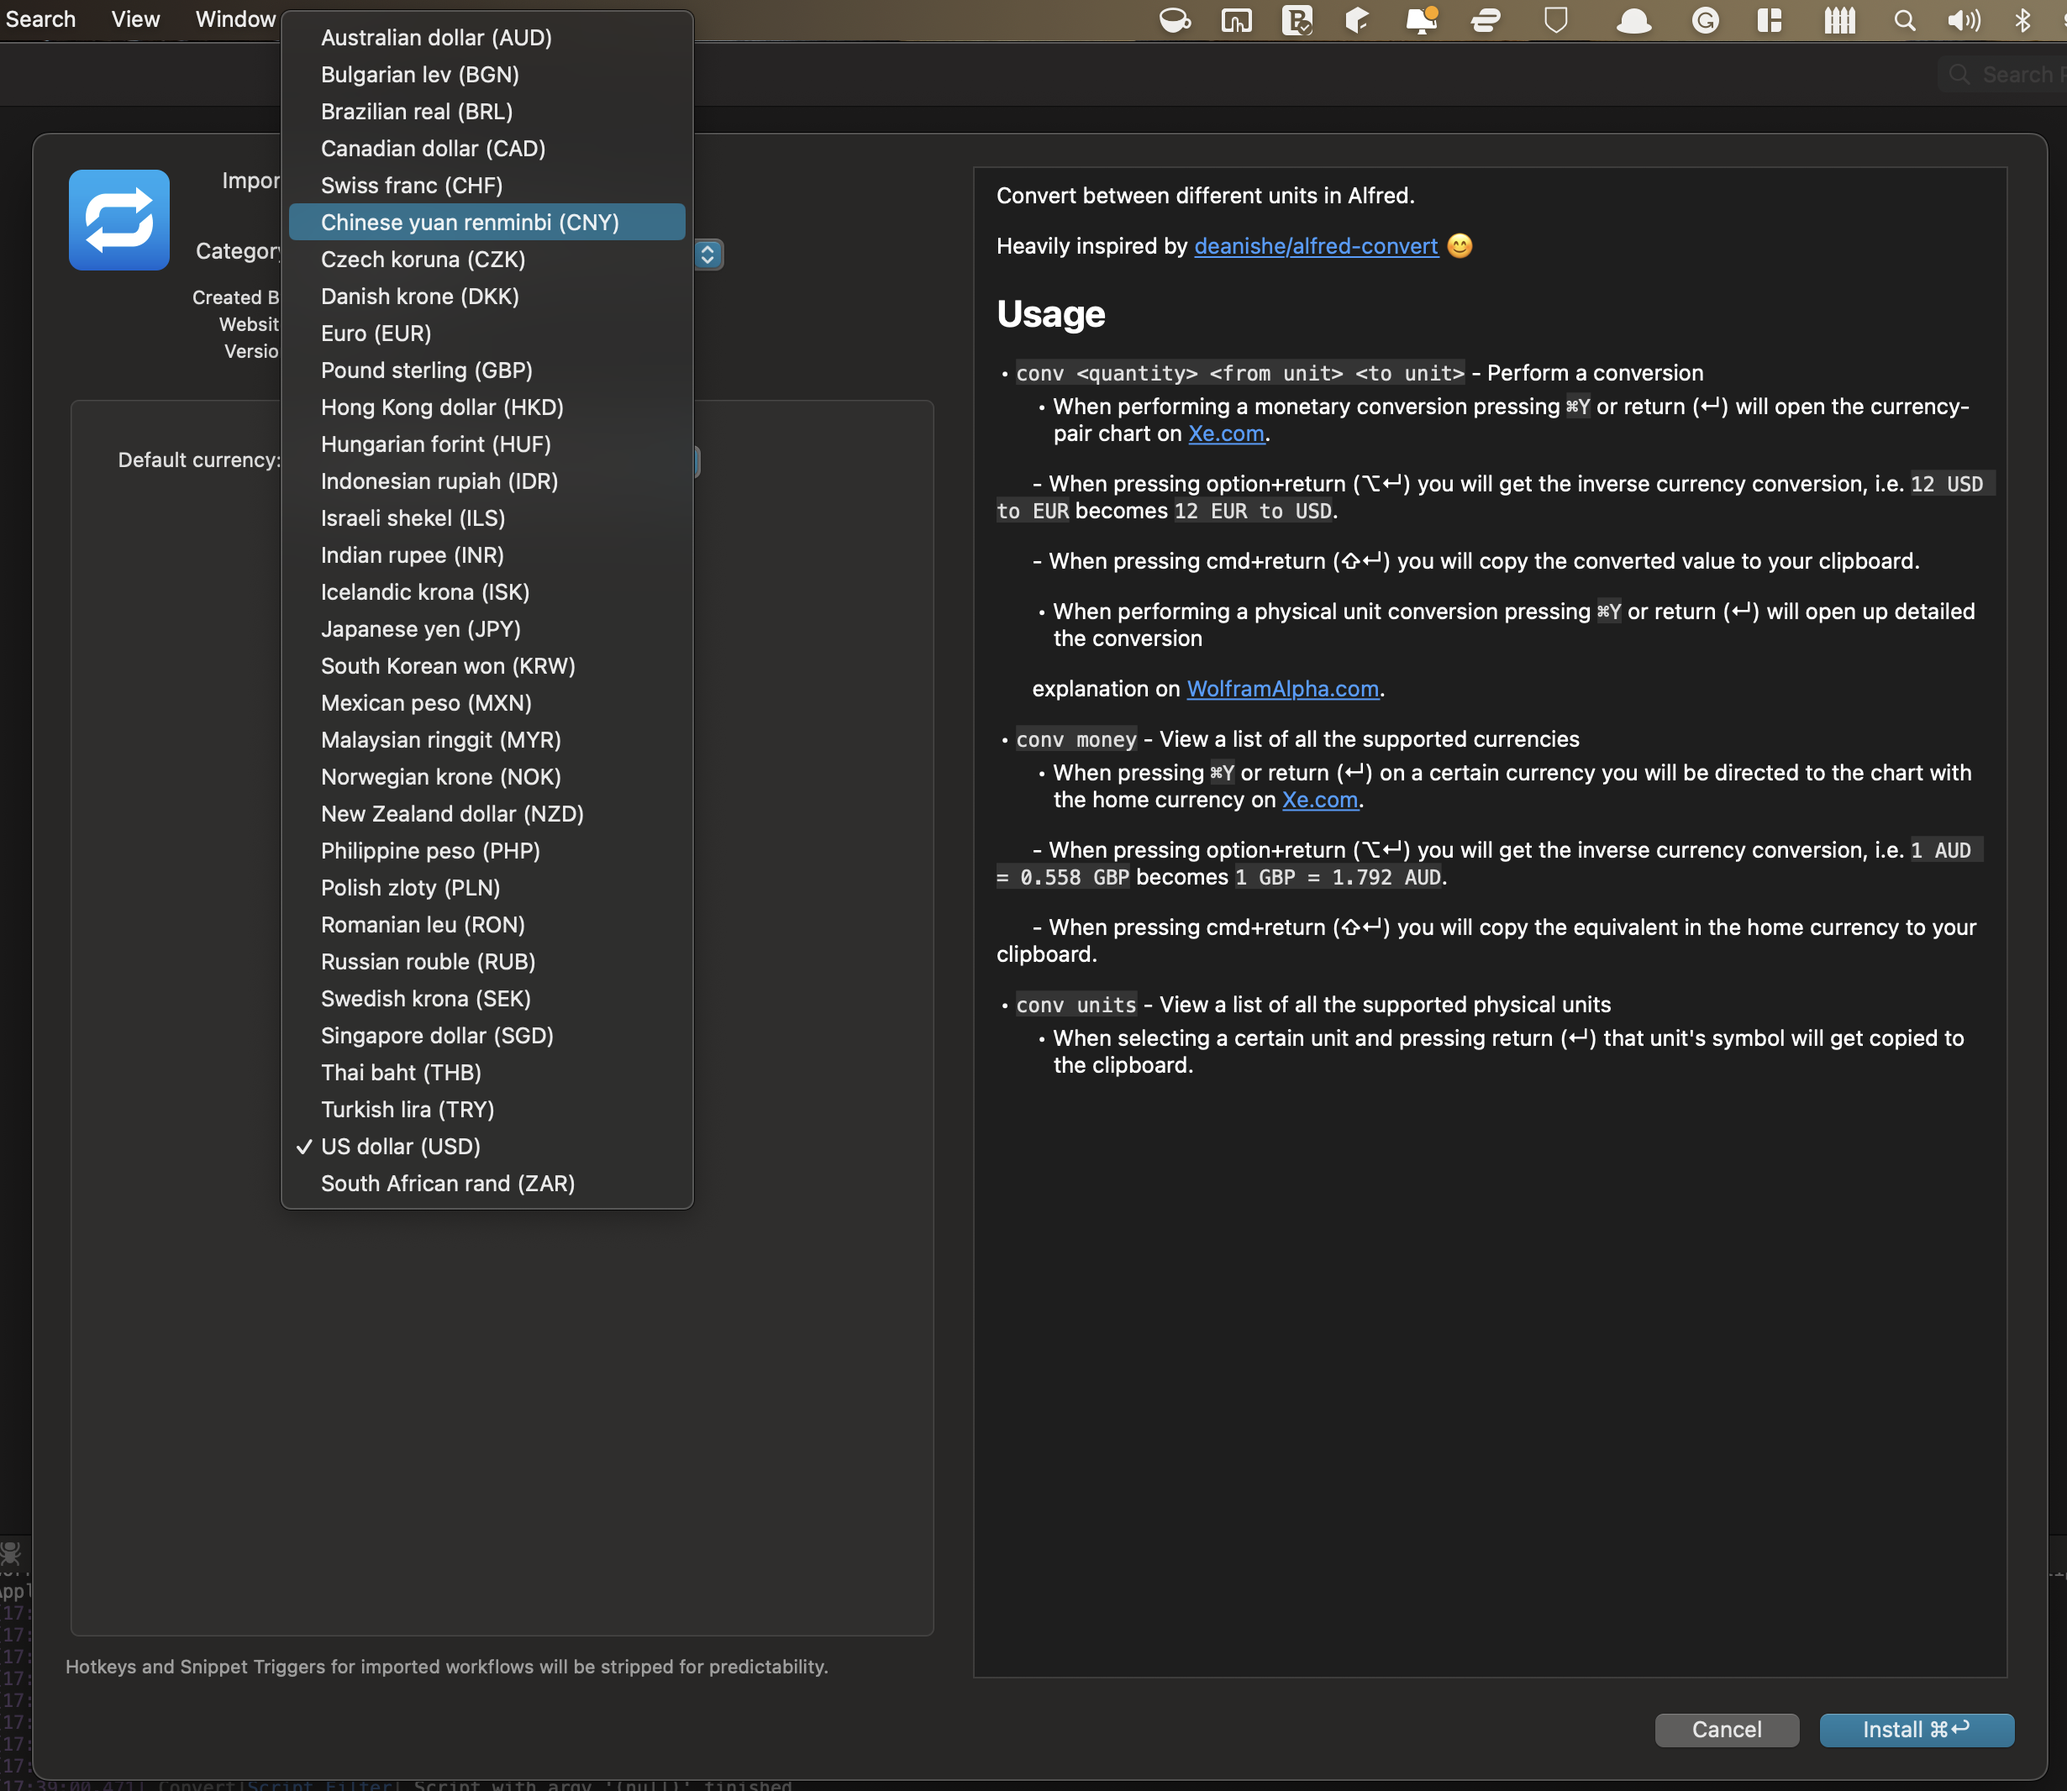
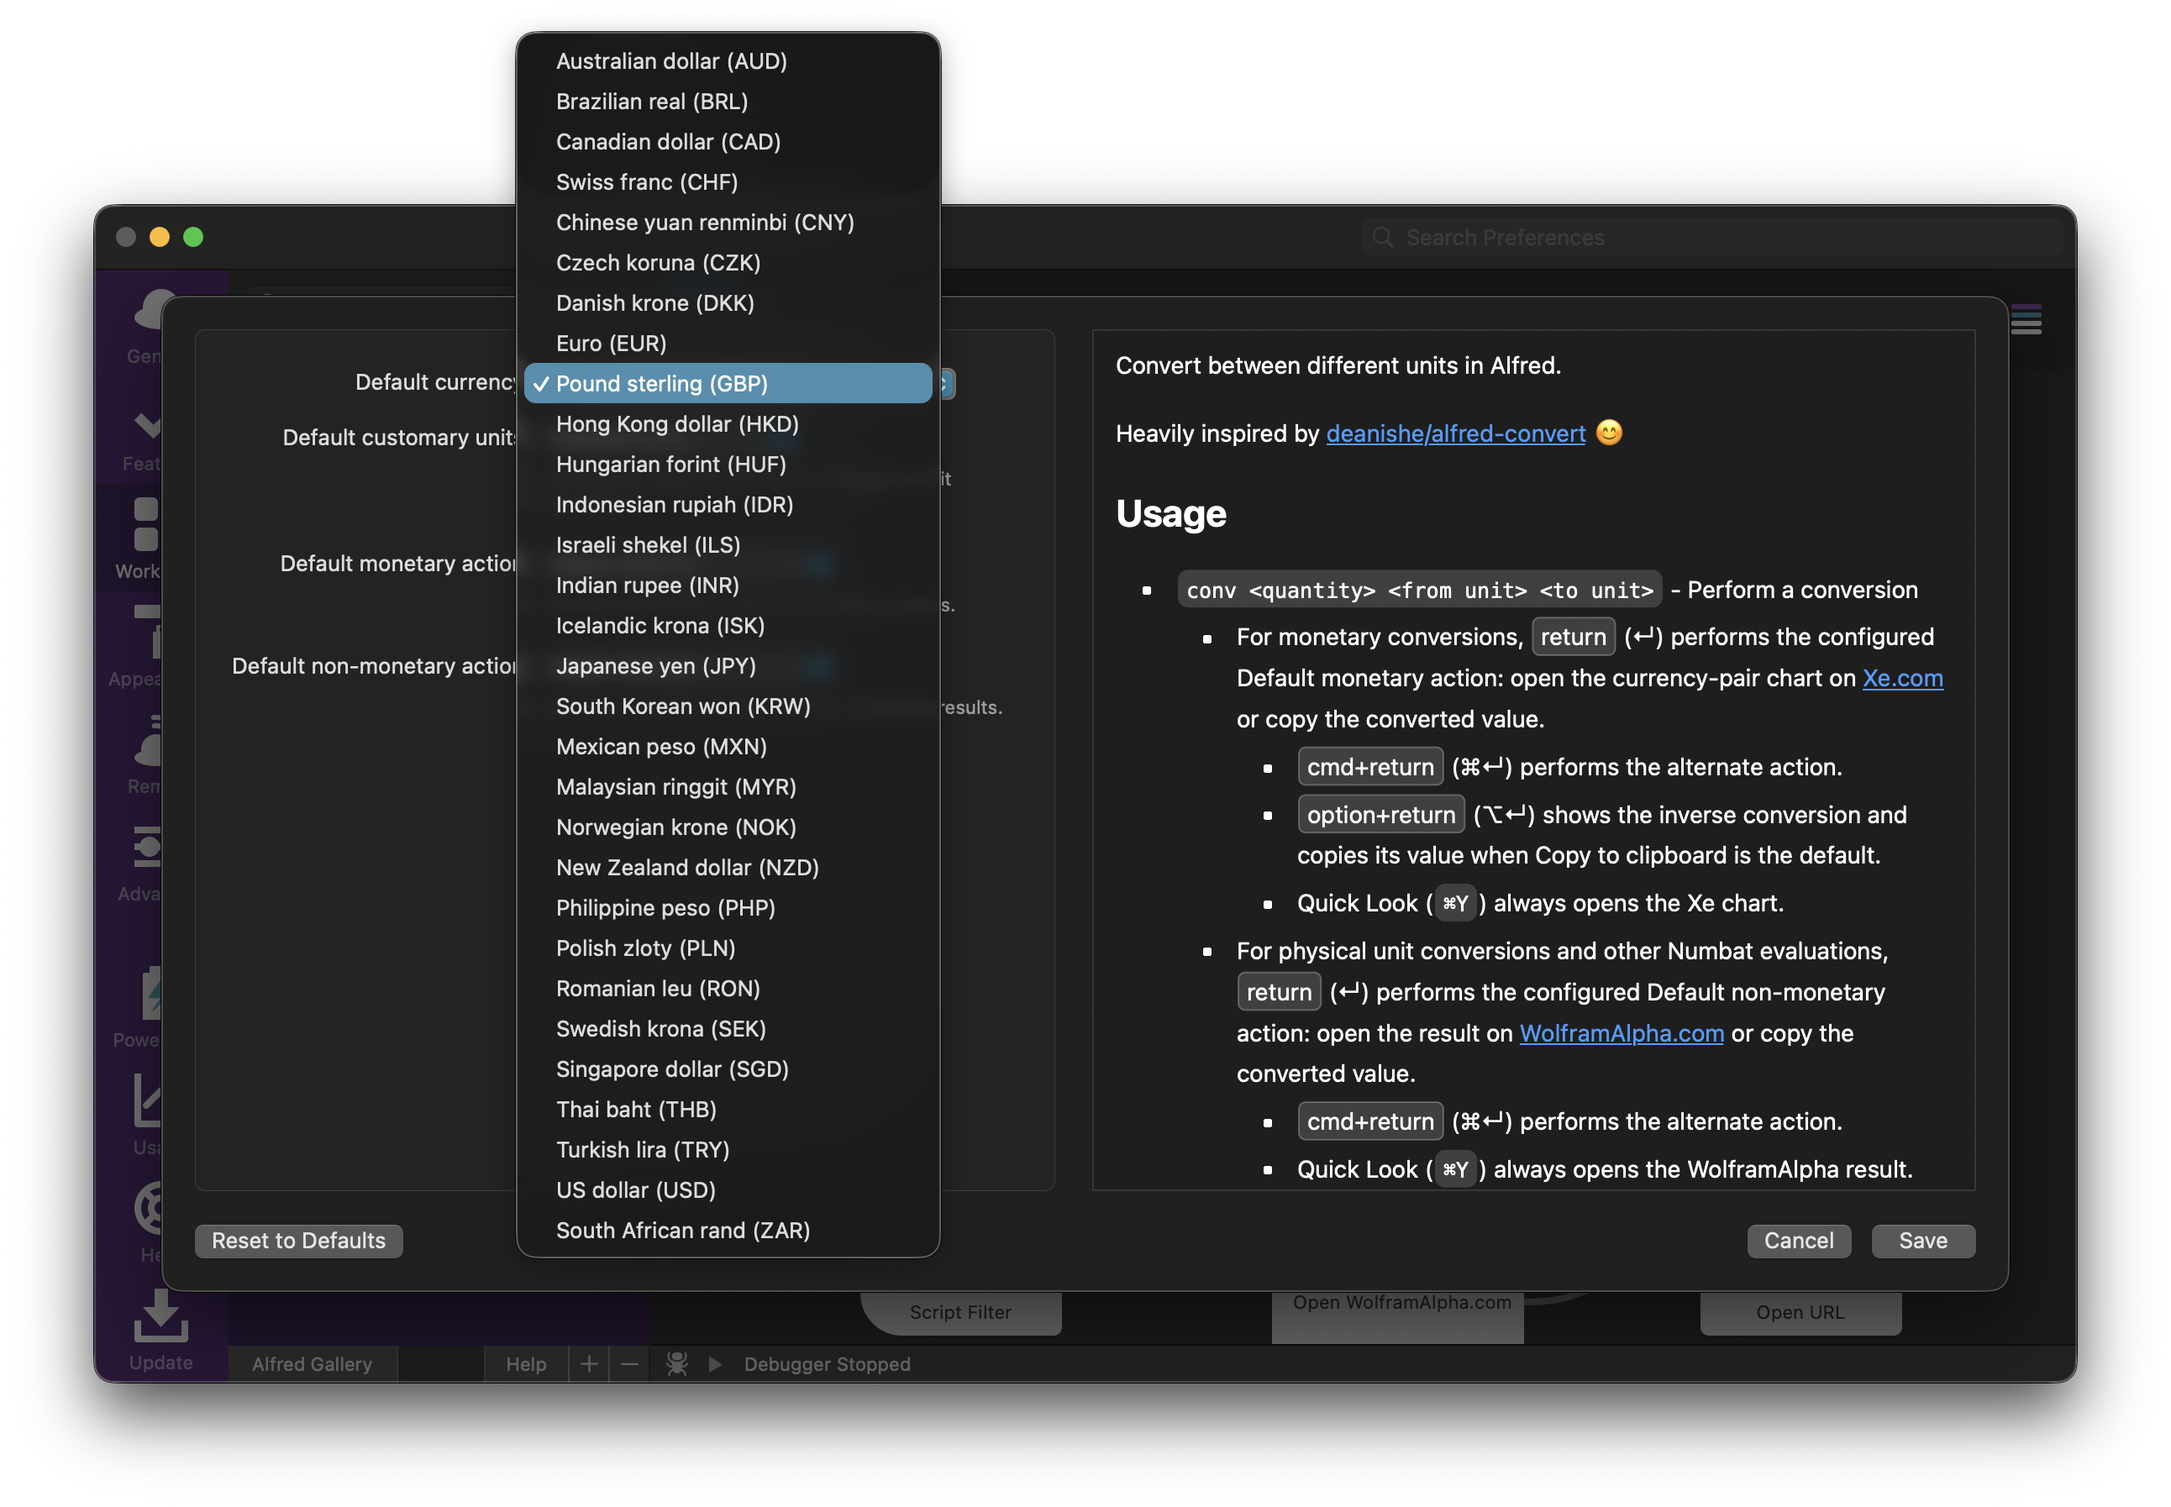
chore: add images for default customary units and actions in README.md

diff --git a/README.md b/README.md
@@ -43,11 +43,17 @@ Valid values are the [ISO 4217](https://en.wikipedia.org/wiki/ISO_4217) currency
 
 ### Default customary units
 
+![default_customary_units](default_customary_units.png)
+
 The Workflow Configuration defaults ambiguous historical shorthand to Imperial (UK) units. Choose US customary to use US definitions for bare `gal`, `pt`, `fl.oz`/`floz`, `tbsp.`, `tsp.`, and `mpg`. Explicit `us.gal`, `us.pt`, `us.fl.oz`, `us.floz`, and `us.mpg` aliases always use US customary units, while native Numbat names such as `gallon`, `tablespoon`, and `fluidounce` remain explicit. `cup` is always US customary.
 
 To convert between systems explicitly, use the lowercase `uk_`/`us_` aliases in the three- or four-token form. Short and long spellings are available as `uk_gal`/`uk_gallon`, `uk_qt`/`uk_quart`, `uk_pt`/`uk_pint`, `uk_gi`/`uk_gill`, `uk_floz`/`uk_fluid_ounce`, `uk_fldr`/`uk_fluid_drachm`, `uk_tbsp`/`uk_tablespoon`, `uk_tsp`/`uk_teaspoon`, and `uk_mpg`/`uk_miles_per_gallon`, with corresponding `us_` forms (the US long fluid-dram spelling is `us_fluid_dram`). For example, `conv 1 uk_floz to us_floz` returns `1 UK fl oz = 0.961 US fl oz`. Explicit aliases ignore the customary-unit preference in both source and target positions. `uk_cup`, bushel, and hogshead aliases are not defined because this workflow has no like-for-like pair for them.
 
 ### Default actions
+
+| monetary | non-monetary |
+| -- | -- |
+| ![default_monetary_action](default_monetary_action.png) | ![default_non_monetary_action](default_non_monetary_action.png) |
 
 The Workflow Configuration provides separate Default monetary action and Default non-monetary action preferences. `Open website` remains the default for both; choose `Copy to clipboard` to copy only the converted value instead. <kbd>cmd+return</kbd> always performs the alternate action.
 
